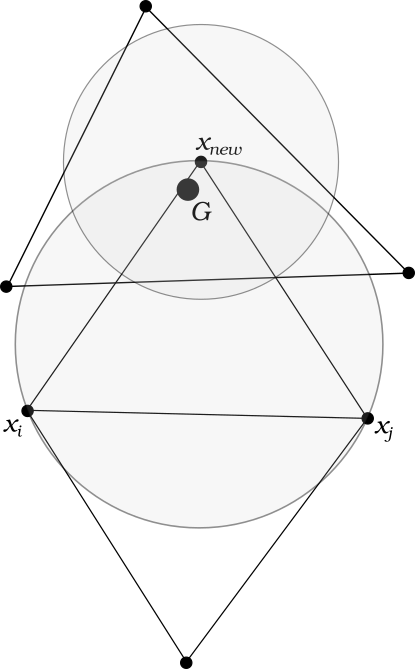
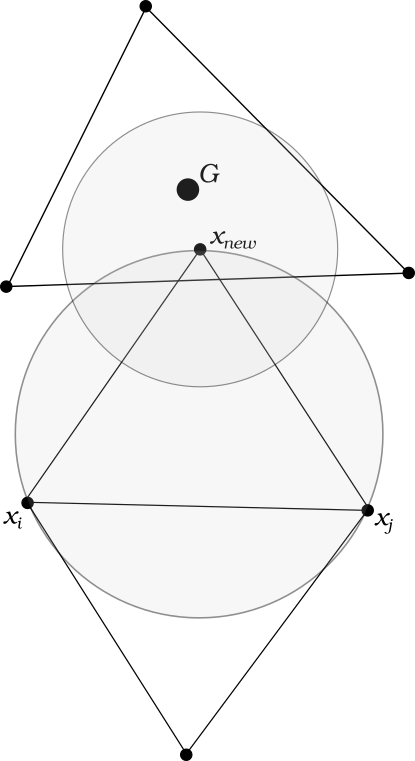
dopísaná podkapitola 4.2.2

diff --git a/Písanie/praca/kapitola4.tex b/Písanie/praca/kapitola4.tex
@@ -17,7 +17,7 @@ hranu vykonáme nasledujúcu postupnosť krokov:
     \item{Skončíme ak je splnená jedna z nasledujúcich možností:
     \begin{itemize}
         \item{Vrchol $\overrightarrow{x}_{new}$ leží na hranici, teda medzi hraničnými 
-        hranami sa nechádza hrana s vrcholom $\overrightarrow{x}_{new}$.}
+        hranami sa nachádza hrana s vrcholom $\overrightarrow{x}_{new}$.}
         \item{Normála $n_{new}$ trojuholníka $T_{new}$ ktorého vrcholy sú $\overrightarrow{x}_i, 
         \overrightarrow{x}_j, \overrightarrow{x}_{new}$ je opačná ako
         normála $\overrightarrow{n}$ susedného trojuholníka $T$, teda 
@@ -43,7 +43,7 @@ hranu vykonáme nasledujúcu postupnosť krokov:
         $\overrightarrow{x}_{prev}$ 
         je sused vrchola $\overrightarrow{x}_i$, $\overrightarrow{x}_{next}$ je sused vrchola 
         $\overrightarrow{x}_j$. Ak niektorý z nich podmienku
-        spĺňa, vykonáme preň body zo kroku 4 a prejdeme na ďalšiu hranu.
+        spĺňa, vykonáme preň body z kroku 4 a prejdeme na ďalšiu hranu.
     }
     \item{
         Ak všetky trojuholníky $T_{new}$, $T_{prev}$ ani $T_{next}$ nespĺňajú podmienku, potom 
@@ -83,6 +83,7 @@ je to jediný trojuholník. Prvá otázka ktorú si pokladáme je nasledujúca.
 \textit{aby sme ju pridali do triangulácie ako nový trojuholník na hraničnej hrane} $E = (x_i, x_j)?$ 
 
 \section{Pridanie trojuholníka do meshe}
+\label{kap:triangle_conditions}
 
 Majme hraničnú hranu $E=(x_i, x_j)$ čiastočnej triangulácie $M$ a bod $x_k \in \mathbb{E}^3$. 
 Tento bod sa môže aj nemusí nachádzať medzi vrcholmi $M$. Za akých podmienok môžeme pridať trojuholník 
@@ -175,6 +176,13 @@ $T=(x_i, x_j, x_k)$ do $M$?
         keďže je to jediný spôsob ako uzavrieť dieru v takmer kompletnej triangulácii,
         avšak tento trojuholník nespĺňa \textit{Delaunayovu podmienku}.
      }
+
+     \item{
+         V okolí bodu $x_{new}$ sa nenachádza ťažisko už existujúceho trojuholníka.
+
+         Táto podmienka, tak isto ako \textit{Delaunayova podmienka}, nebude musieť byť splnená vždy,
+         avšak taktiež ju vyžadujeme v prvej časti algoritmu.
+     }
     \begin{figure}
         \centerline{\includegraphics[width=0.35\textwidth]{images/non_delaunay_triangle}}
         \caption[]{TODO}
@@ -183,16 +191,16 @@ $T=(x_i, x_j, x_k)$ do $M$?
     \end{figure}
 \end{itemize}
 
-\section{Voľba nového vrchola $x_{new}$}
+\section{Tvorba nového trojuholníka $T_{new}$}
 
 Majme hraničnú hranu $E=(x_i, x_j)$ čiastočnej triangulácie $M$. V tejto podkapitole opíšeme 
-aké vrcholy $x_{new}$ skúšame pre túto hranu. Ako sme už spomínali, algoritmus používa ako 
+aké vrcholy $x$ skúšame pre túto hranu. Ako sme už spomínali, algoritmus používa ako 
 základnú štruktúru postup opísaný na začiatku kapitoly \ref{kap:algoritmus}. 
 Do tohto postupu sme však pridali zmeny založené na našich pozorovaniach.
 
-\subsection{Problémy voľby vrchola pri tvorbe nového trojuholníka}
+\subsection{Problémy pri tvorbe nového vrchola $x_{new}$}
 
-V tejto podkapitole opíšeme problémy ktoré sme spozorovali počas štúdia algoritmu základného 
+V tejto podkapitole opíšeme problémy ktoré sme spozorovali počas štúdia základného 
 algoritmu.
 
 \begin{enumerate}
@@ -219,7 +227,7 @@ algoritmu.
     do meshu. Vidíme však, že tento trojuholník sa môže pretínať s iným hraničným trojuholníkom.
 
     \begin{figure}
-        \centerline{\includegraphics[width=0.8\textwidth]{images/second_problem}}
+        \centerline{\includegraphics[width=0.5\textwidth]{images/second_problem}}
         \caption[Trojuholník $T_{new}$ nemá vo svojom okolí blízky bod]{Trojuholník $T_{new}$ nemá vo svojom okolí blízky bod}
         %id obrazku, pomocou ktoreho sa budeme na obrazok odvolavat
         \label{obr:second_problem}
@@ -228,105 +236,144 @@ algoritmu.
 
 \end{enumerate}
   
+\subsection{Navrhované riešenia}
 
+\begin{enumerate}
+\item{
+    Našim navrhovaným riešením je v okolí vrchola $\overrightarrow{x}_{new}$ pridať guľu s polomerom 
+    $0.4-$násobku dĺžky strany trojuholníka. Následne zisťujeme, či sa vnútri tejto gule nachádzajú 
+    hraničné body. Tieto body nazveme blízke body k bodu $\overrightarrow{x}_{new}$. V ďalšom kroku 
+    sa pokúšame vytvoriť trojuholník s hranou E a blízkymi bodmi počnúc od najbližšieho. $2D$ ilustáciu 
+    riešenia môžeme vidieť na obrázku \ref{obr:first_problem_solution}. 
 
+    \begin{figure}
+        \centerline{\includegraphics[width=0.7\textwidth]{images/first_problem_solution}}
+        \caption[Trojuholník $T_{new}$ má vo svojom okolí blízky bod]{Trojuholník $T_{new}$ má vo svojom okolí blízky bod}
+        %id obrazku, pomocou ktoreho sa budeme na obrazok odvolavat
+        \label{obr:first_problem_solution}
+    \end{figure}
+}
 
-Našim navrhovaným riešením je v okolí vrchola $\overrightarrow{x}_{new}$ pridať guľu s polomerom $0.4-$násobku 
-dĺžky strany trojuholníka. Následne zisťujeme, či sa vnútri tejto gule nachádzajú hraničné body. 
-Tieto body nazveme blízke body k bodu $\overrightarrow{x}_{new}$. V ďalšom kroku sa pokúšame vytvoriť trojuholník s
-hranou E a blízkymi bodmi počnúc od najbližšieho. $2D$ ilustáciu riešenia môžeme vidieť na obrázku 
-\ref{obr:first_problem_solution}. 
+\item{
 
-// TODO toto sa možno dá odstrániť z algoritmu!
-Druhé riešenie je zväčšenie polomeru \textit{Delaunayovej gule} na $1.1-$násobok pôvodného polomeru.
+    Naše navrhované riešenie druhého problému je hneď po kontrole blízkych bodov k bodu 
+    $\overrightarrow{x}_{new}$ nájsť spomedzi hraničných hrán najbižšiu hranu k bodu $x_{mid}$
+    ktorý je stredom hrany $E$. 
+    Metrika ktorú používame na nájdenie najbližšej hrany k bodu je definovaná nasledovne.
 
+    \begin{definition} Vzdialenosť hrany $E=(A,B)$ a vrchola $P$ definujeme ako
+    \begin{itemize}
+        \item{
+            $|AP|$ ak $\measuredangle BAP \in (\frac{\pi}{2}, \frac{3\pi}{2})$
+        }
 
+        \item{
+            $|BP|$ ak $\measuredangle ABP \in (\frac{\pi}{2}, \frac{3\pi}{2})$
+        }
 
-\begin{figure}
-    \centerline{\includegraphics[width=1\textwidth]{images/first_problem_solution}}
-    \caption[Trojuholník $T_{new}$ má vo svojom okolí blízky bod]{Trojuholník $T_{new}$ má vo svojom okolí blízky bod}
-    %id obrazku, pomocou ktoreho sa budeme na obrazok odvolavat
-    \label{obr:first_problem_solution}
-\end{figure}
+        \item{
+            $|EP|$ inak
+        }
 
+        
+        Pričom $|AP|$, $|BP|$ je euklidovská vzdialenosť bodov v $\mathbb{R}^3$ a $|EP|$ je kolmá 
+        vzdialenosť bodu $P$ od priamky na ktorej leží hrana $E$.
+    \end{itemize}
 
+    \end{definition}
 
+    Vizualizáciu tejto metriky môžeme vidieť na obrázku \ref{obr:edge_vertex_distance}.
 
+    \begin{figure}
+        \centerline{\includegraphics[width=0.6\textwidth]{images/edge_vertex_distance}}
+        \caption[Vizualizácia vzdialenosti bodov $P_1, ..., P_8$ od hrany $E=(A,B)$]
+        {Vizualizácia vzdialenosti bodov $P_1, ..., P_8$ od hrany $E=(A,B)$}
+        %id obrazku, pomocou ktoreho sa budeme na obrazok odvolavat
+        \label{obr:edge_vertex_distance}
+    \end{figure}
 
-
-TODO skúsiť hľadať najbižšiu hranu k stredu $E$, namiesto bodu $x_{new}$
-
-Tento problém sme vyriešili tým, že hneď po kontrole blízkych bodov k bodu 
-$\overrightarrow{x}_{new}$ nájdeme spomedzi hraničných hrán k nemu najbižšiu. 
-Metrika ktorú používame na nájdenie najbližšej hrany k bodu je definovaná nasledovne.
-
-\begin{definition} Vzdialenosť hrany $E=(A,B)$ a vrchola $P$ definujeme ako
-\begin{itemize}
-    \item{
-        $|AP|$ ak $\measuredangle BAP \in (\frac{\pi}{2}, \frac{3\pi}{2})$
-    }
-
-    \item{
-        $|BP|$ ak $\measuredangle ABP \in (\frac{\pi}{2}, \frac{3\pi}{2})$
-    }
-
-    \item{
-        $|EP|$ inak
-    }
-
+    Po nájdení najbližšej hrany $E_{closest} = (\overrightarrow{x}_k, \overrightarrow{x}_l)$ 
+    k bodu sa pokúsime vytvoriť trojuholník z hrany $E$ a vrchola $\overrightarrow{x}_k$, potom z
+    vrchola $\overrightarrow{x}_l$. Ak ani jeden z týchto trojuholníkov nie je vhodný, pokúsime sa 
+    vytvoriť trojuholník z hrany $E$ a vrchola $\overrightarrow{x}_{mid}$. Tento vrchol 
+    volíme ako stred hrany $E_{closest}$, ktorý sprojektujeme na plochu. Ak je tento trojuholník vhodný
+    postupujeme nasledovne. 
     
-    Pričom $|AP|$, $|BP|$ je euklidovská vzdialenosť bodov v $\mathbb{R}^3$ a $|EP|$ je kolmá 
-    vzdialenosť bodu $P$ od priamky na ktorej leží hrana $E$.
+    \begin{itemize}
+    \item{
+        Vyberieme z meshu trojuholník z ktorého je hrana $E_{closest}$, označme ho 
+        $T_{closest}=(x_k, x_l, x_{closest})$.
+    }
+    \item{
+        Rozdelíme trojuholník $T_{closest}$ na dva trojuholníky $T_1 = (x_k, x_{mid}, x_{closest})$ a
+        $T_1 = (x_{mid}, x_l, x_{closest})$.
+    }
+    \item{
+        pridáme trojuholníky $T_1$ a $T_2$ do meshu. 
+    }
+    \end{itemize}
+
+    Tento postup môžeme vidieť na obrázku \ref{obr:second_problem_solution}.
+
+    \begin{figure}
+        \centerline{\includegraphics[width=1\textwidth]{images/second_problem_solution}}
+        \caption[TODO]{TODO}
+        %id obrazku, pomocou ktoreho sa budeme na obrazok odvolavat
+        \label{obr:second_problem_solution}
+    \end{figure}
+
+    Z toho istého dôvodu sme rozšírili \textit{Delaunayovu podmienku} o podmienku, že 
+    v okolí nového vrchola $x_{new}$ sa nesmie nachádzať ťažisko už existujúceho trojuholníka.
+    Vizualizáciu tejto podmienky môžeme vidieť na obrázku \ref{obr:centroid_in_delaunay}.
+
+    \begin{figure}
+        \centerline{\includegraphics[width=0.25\textwidth]{images/centroid_in_delaunay}}
+        \caption[TODO]{TODO}
+        %id obrazku, pomocou ktoreho sa budeme na obrazok odvolavat
+        \label{obr:centroid_in_delaunay}
+    \end{figure}
+}
+\end{enumerate}
+
+Ak sa nám doteraz nepodarilo vytvoriť žiadny trojuholník s hranou $E$ a zároveň trojuholník 
+$T_{new} = (x_i, x_j, x_{new})$ spĺňa všetky podmienky vymenované v podkapitole 
+\ref{kap:triangle_conditions}, pridáme ho do meshu. A posunieme sa k ďalšej hraničnej hrane.
+
+\subsection{Skúšanie súsedných hraničných hrán}
+Pre zhrnutie uvedieme kroky, z ktorých sa skladal doterajší postup.
+\begin{itemize}
+\item{
+    Vytvorenie nového vrchola $x_{new}$.
+}
+\item{
+    Skúšanie vytvárania trojuholníka s blízkymi bodmi k bodu $x_{new}$.
+    Ak sa to podarí, skončíme. 
+}
+\item{
+    Nájdenie najbližšej hraničnej hrany $E_{closest}$.
+}
+\item{
+    Skúšanie vytvárania trojuholníka s koncovými bodmi hraničnej hrany $E_{closest}$ a 
+    stredným bodom $x_{mid}$. Ak sa to podarí, skončíme.
+}
+\item{
+    Overenie podmienok opísaných v časti \ref{kap:triangle_conditions}. Ak sú splnené, pridáme do 
+    meshu trojuhoľník $T_{new}$ a skončíme.
+}
 \end{itemize}
 
-\end{definition}
+V prípade ak sa nám v doterajšom postupe nepodaril vytvoriť nový trojuholník postúpime ku kroku 
+číslo 5. základného algoritmu a teda sa pokúšame vytvoriť trojuholník so susednými hraničnými bodmi 
+$x_{prev}$ a $x_{next}$. Pre tieto trojuholníky overujeme všetky podmienky z časti 
+\ref{kap:triangle_conditions} okrem poslednej, teda tej, že v okolí nového bodu sa nesmie 
+nachádzať ťažisko už existujúceho trojuholníka. Ak tieto podmienky platia, pridáme trojuholník 
+do meshe a skončíme.
 
-Vizualizáciu tejto metriky môžeme vidieť na obrázku \ref{obr:edge_vertex_distance}.
+V prípade, že ani jeden z vrcholov $x_{prev}$, $x_{next}$ nevyhovuje podmienkam, zistíme, 
+či sa nejaké body nachádzajú v \textit{Delaunayovej guli}, ak áno, skúšame 
 
-\begin{figure}
-    \centerline{\includegraphics[width=0.6\textwidth]{images/edge_vertex_distance}}
-    \caption[Vizualizácia vzdialenosti bodov $P_1, ..., P_8$ od hrany $E=(A,B)$]
-    {Vizualizácia vzdialenosti bodov $P_1, ..., P_8$ od hrany $E=(A,B)$}
-    %id obrazku, pomocou ktoreho sa budeme na obrazok odvolavat
-    \label{obr:edge_vertex_distance}
-\end{figure}
 
-Po nájdení najbližšej hrany $E_{closest} = (\overrightarrow{x}_k, \overrightarrow{x}_l)$ 
-k bodu sa pokúsime vytvoriť trojuholník z hrany $E$ a vrchola $\overrightarrow{x}_k$, 
-$\overrightarrow{x}_l$. Ak ani jeden z týchto trojuholníkov nie je vhodný, pokúsime sa 
-vytvoriť trojuholník z hrany $E$ a vrchola $\overrightarrow{x}_{mid}$. Tento vrchol 
-volíme ako stred hrany $E$, ktorý sprojektujeme na plochu. Ak je tento trojuholník vhodný
-postupujeme nasledovne. Vyberieme z meshu trojuholník z ktorého je hrana $E_{closest}$ a
-rozdelíme ho podľa vrchola $\overrightarrow{x}_{mid}$. Následne pridáme oba prerozdelené
-trojuholníky aj nový trojuholník do meshu. Tento postup môžeme vidieť na obrázku 
-\ref{obr:second_problem_solution}.
 
-\begin{figure}
-    \centerline{\includegraphics[width=1\textwidth]{images/second_problem_solution}}
-    \caption[TODO]{TODO}
-    %id obrazku, pomocou ktoreho sa budeme na obrazok odvolavat
-    \label{obr:second_problem_solution}
-\end{figure}
-
-Ak sa nám doteraz nepodarilo vytvoriť žiadny trojuholník s hranou $E$, ďalší spôsob na 
-zistenie potenciálneho pretínania trojuholníkov implementujeme ako 
-výskyt ťažiska trojuholníka vnútri \textit{Delaunayovej gule}. Ilustráciu tejto podmienky
-vidíme na obrázku \ref{obr:centroid_in_delaunay}.V tomto prípade jednoducho
-takýto trojuholník nevytvoríme a posunieme sa na ďalší krok a to pokus o vytváranie trojuholníka
-s vrcholom $\overrightarrow{x}_{prev}$ a $\overrightarrow{x}_{next}$. 
-
-\begin{figure}
-    \centerline{\includegraphics[width=0.3\textwidth]{images/centroid_in_delaunay}}
-    \caption[TODO]{TODO}
-    %id obrazku, pomocou ktoreho sa budeme na obrazok odvolavat
-    \label{obr:centroid_in_delaunay}
-\end{figure}
-
-%vidíme zväčšenie \textit{Delaunayovej gule} na $1.1-$násobok pôvodného polomeru a 
-%kontrolovanie výskytu ťažiska niektorého z trojuholníkov meshu vnútri tejto gule. Táto podimeka nám síce 
-%môže vyradiť viac trojuholníkov ako pôvodná \textit{Delaunayova podmienka}, tento problém však môžeme 
-%vyriešiť v dodatočnom spracovaní.
-  
     //TODO toto hodiť do časti implementácia
     
     Na určenie správnej orientácie využívame susedný trojuholník, na obrázku vyznačený 
